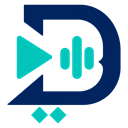
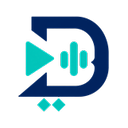
chore: validate Chrome Web Store assets

diff --git a/tests/store-assets.test.js b/tests/store-assets.test.js
@@ -1,0 +1,33 @@
+import test from 'node:test';
+import assert from 'node:assert/strict';
+import path from 'node:path';
+import { readFile } from 'node:fs/promises';
+import { inspectPng, inspectRgbaAlphaBounds, validateStoreAssets } from '../scripts/validate-store-assets.mjs';
+
+const root = path.resolve(import.meta.dirname, '..');
+
+test('PNG inspector rejects non-PNG data', () => {
+  assert.throws(() => inspectPng(Buffer.from('not a png'), 'fixture'), /valid PNG/);
+});
+
+test('current icons and promotional assets have exact Store dimensions', async () => {
+  const result = await validateStoreAssets(root);
+  assert.equal(result.icons, 4);
+  assert.equal(result.screenshots, 0);
+  assert.match(result.warnings.join('\n'), /real 1280x800 extension experience/);
+});
+
+test('128px Store icon artwork stays inside the centered 96px safe area', async () => {
+  const bounds = inspectRgbaAlphaBounds(await readFile(path.join(root, 'icons/icon-128.png')), 'icon-128');
+  assert.ok(bounds.left >= 16);
+  assert.ok(bounds.top >= 16);
+  assert.ok(bounds.right <= 112);
+  assert.ok(bounds.bottom <= 112);
+});
+
+test('release validation refuses to substitute marketing mockups for real screenshots', async () => {
+  await assert.rejects(
+    validateStoreAssets(root, { release: true }),
+    /No submission screenshot exists yet/
+  );
+});

diff --git a/TEST_REPORT.md b/TEST_REPORT.md
@@ -7,12 +7,12 @@
 
 | Check | Current result |
 |---|---|
-| `npm test` | PASS — 299/299 Node tests on the current worktree |
+| `npm test` | PASS — 303/303 Node tests on the current worktree |
 | `python -m unittest server/test_dablaja.py` | PASS — 115/115 backend tests on the current worktree |
 | `node scripts/check.mjs` | PASS — 34 JavaScript files |
 | Element-binding checker | PASS — library, popup, stats, side-panel, and diagnostics bindings; duplicate IDs and unwired static controls are rejected |
 | ESLint | PASS |
-| Manifest validation (development) | PASS |
+| Manifest and Store-asset validation (development) | PASS — manifest plus exact 16/32/48/128 icons, 128px Store-icon safe-area padding, 440x280 small promo, and 1400x560 marquee; emits an intentional warning because a real-operation screenshot is still pending |
 | `npm run smoke` | PASS — isolated unpacked Edge/Chromium profile; popup, static Gemini disclosure/key flow, analytics default-off/opt-in, local-saving default-on, volumes/site profile, library, stats, side panel, diagnostics, and console checks |
 | `npm run e2e` | PASS — 51/51 default checks; live-server mode 54/54; live-Checkout mode 52/52 and opened an independently validated production `checkout.stripe.com` URL without entering payment details or purchasing |
 | Release validation | PASS as a guard: it refuses because acceptance evidence is pending |
@@ -73,6 +73,12 @@
   locally owned records stay readable.
 - Runtime package dependencies and local HTML/CSS resources are checked against
   the explicit ZIP allowlist.
+- Chrome Web Store assets now have a separate validated submission directory.
+  The generated brand art is limited to the 440x280 small promo and optional
+  1400x560 marquee; the eight historical AI mockups are explicitly excluded as
+  screenshots. Release validation requires at least one real 1280x800 (or
+  640x400) current-product screenshot and refuses to treat promo art as proof of
+  the extension experience.
 - Checkout navigation accepts only credential-free HTTPS URLs on
   `checkout.stripe.com`; both the server response and extension navigation are
   independently validated. Failure to open the Stripe tab is reported in
@@ -146,6 +152,9 @@
   CSP, no cookie before login, and no `?token=` in markup. Caddy was validated
   and reloaded with the path-scoped headers; its previous file was backed up.
 - The exact release ZIP has not been loaded in a separate clean Chrome profile.
+- No verified real-operation 1280x800 Store screenshot has been captured from
+  the exact current build yet. The required promotional dimensions are ready,
+  but the Store screenshot gate remains intentionally open.
 
 Because these are required acceptance criteria, `npm run package:release` must
 continue to refuse until `RELEASE_ACCEPTANCE.md` and `RELEASE_CHECKLIST.md` are

diff --git a/STORE_LISTING.md b/STORE_LISTING.md
@@ -34,7 +34,7 @@ Understand English videos live in Arabic with dubbed audio and bilingual caption
 **طريقة الاستخدام**
 
 1. افتح تبويباً آمناً (HTTPS) يحتوي على كلام إنجليزي.
-2. افتح الإضافة وأدخل مفتاح Gemini ووافق على الإفصاح.
+2. افتح الإضافة، أدخل مفتاح Gemini، واقرأ الإفصاح الواضح بجانب حقل المفتاح.
 3. اضغط «ابدأ الدبلجة»؛ وستفتح لوحة الترجمة الثنائية تلقائياً بجانب الفيديو. إذا منع Chrome الفتح التلقائي، اختر Dablaja من قائمة اللوحة الجانبية.
 4. اضبط الصوتين، واضغط إيقاف عند الانتهاء.
 
@@ -72,11 +72,13 @@ Translate the user-selected current tab's live spoken audio into Arabic audio an
 - **Retention:** No extension retention of audio. Key/settings/saved sessions remain locally until deletion/uninstall. One-time usage event IDs are removed within 8 days; diagnostics within 45 days; submitted forms within 180 days; unpaid/failed Checkout attempts within 30 days; daily anonymous aggregates may be retained for historical totals. Completed purchase/license records remain while the license exists and as needed for accounting, fraud prevention, refunds/disputes, support, and legal obligations.
 - **Transport:** Encrypted HTTPS/WSS.
 
-## Store assets still required before submission
+## Store submission assets and URLs
 
-- Screenshots from verified real operation (do not include keys or sensitive captions).
-- Final support email/site and a publicly hosted URL for `privacy.html`.
-- Final product name/publisher identity if different from the temporary values.
+- Ready: exact 16/32/48/128 extension icons, 440x280 small promo, and 1400x560 marquee in `store-assets/`.
+- Required: 1–5 screenshots from verified real operation at 1280x800 (preferred); do not include keys, private captions, or sensitive tab content.
+- Privacy policy: `https://audiofetcher.com/dablaja/privacy.html`
+- Support form: `https://audiofetcher.com/dablaja/feedback?source=store`
+- Owner action still required in the dashboard: final support email and publisher identity.
 
 **Dablaja Plus — ترخيص مدى الحياة بدفعة واحدة 10$**
 

diff --git a/store-assets/README.md b/store-assets/README.md
@@ -1,0 +1,37 @@
+# Chrome Web Store assets
+
+This directory contains only files intended for the Chrome Web Store dashboard.
+It is deliberately excluded from the extension ZIP.
+
+## Ready
+
+- `small-promo-440x280.png`: required small promotional tile.
+- `marquee-1400x560.png`: optional marquee promotional image.
+- The Store icon is `icons/icon-128.png`; its visible artwork is constrained to
+  the centered 96x96 safe area with 16px transparent padding. The manifest also
+  ships exact 16, 32, and 48 pixel variants.
+
+The two promotional graphics were generated with the built-in image-generation
+tool from the existing Dablaja logo mark and seated mascot. The production
+prompt requested a full-bleed navy/teal software-brand composition with no
+text, price, rating, badge, browser UI, Google/Chrome mark, or product claim.
+They are promotional art, not product screenshots.
+
+## Still required
+
+Add between one and five **real** current-product screenshots to `screenshots/`.
+Use descriptive ordered names such as `01-live-dubbing.png`. Each file must be
+PNG at 1280x800 (preferred) or 640x400. Before approval, verify that it:
+
+- shows the actual extension version being submitted;
+- contains no Gemini key, private caption, account detail, or sensitive tab;
+- uses current Dablaja UI and truthful Free/Plus limits;
+- is sharp, full bleed, and has square corners;
+- does not fabricate reviews, user counts, performance, or Store status.
+
+The eight files in `store-images/` are visual references and AI mockups. They
+are not submission screenshots and must not be uploaded as proof of the real
+extension experience.
+
+Run `npm run validate` to check dimensions. Release validation intentionally
+fails until at least one real screenshot is present.

diff --git a/RELEASE_CHECKLIST.md b/RELEASE_CHECKLIST.md
@@ -61,7 +61,8 @@ not equivalent to a passed release requirement.
 - [ ] Official Gemini model/protocol/pricing/quota/preview status rechecked on submission day.
 - [ ] Store data-use questionnaire copied exactly from `STORE_LISTING.md`.
 - [ ] Final screenshots contain no key, private captions, or sensitive tab content.
-- [ ] Icons and promotional assets verified at required dimensions.
+- [x] Extension icons and promotional tiles verified at required dimensions.
+- [ ] At least one real-operation Store screenshot verified at 1280x800 with no sensitive content.
 - [ ] Exact release ZIP loads in a separate clean Chrome profile.
 - [ ] ZIP contains no tests, previews, mocks, maps, secrets, logs, caches, or dev scripts.
 - [ ] `RELEASE_ACCEPTANCE.md` contains all six `PASS` markers and `Decision: APPROVED`.
